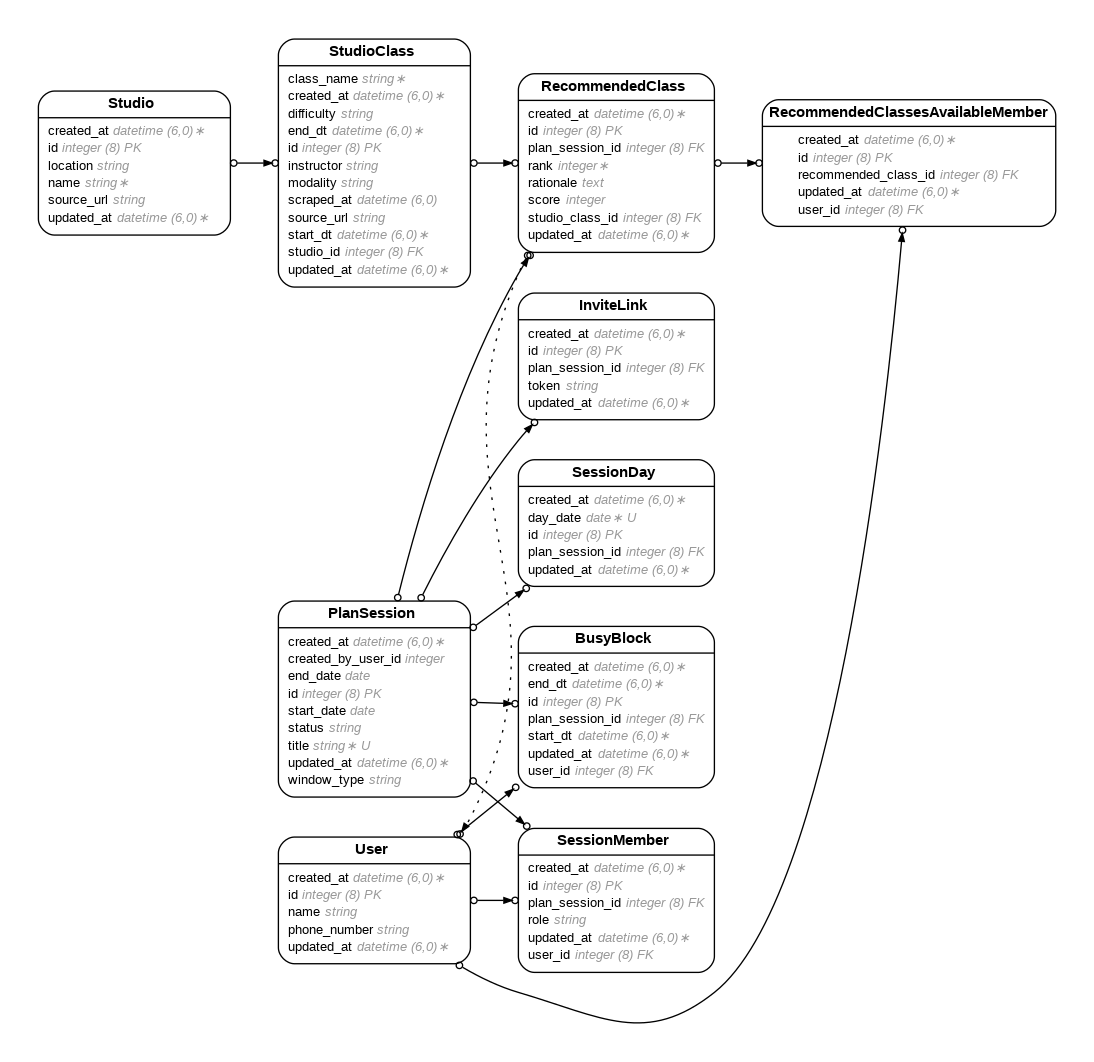
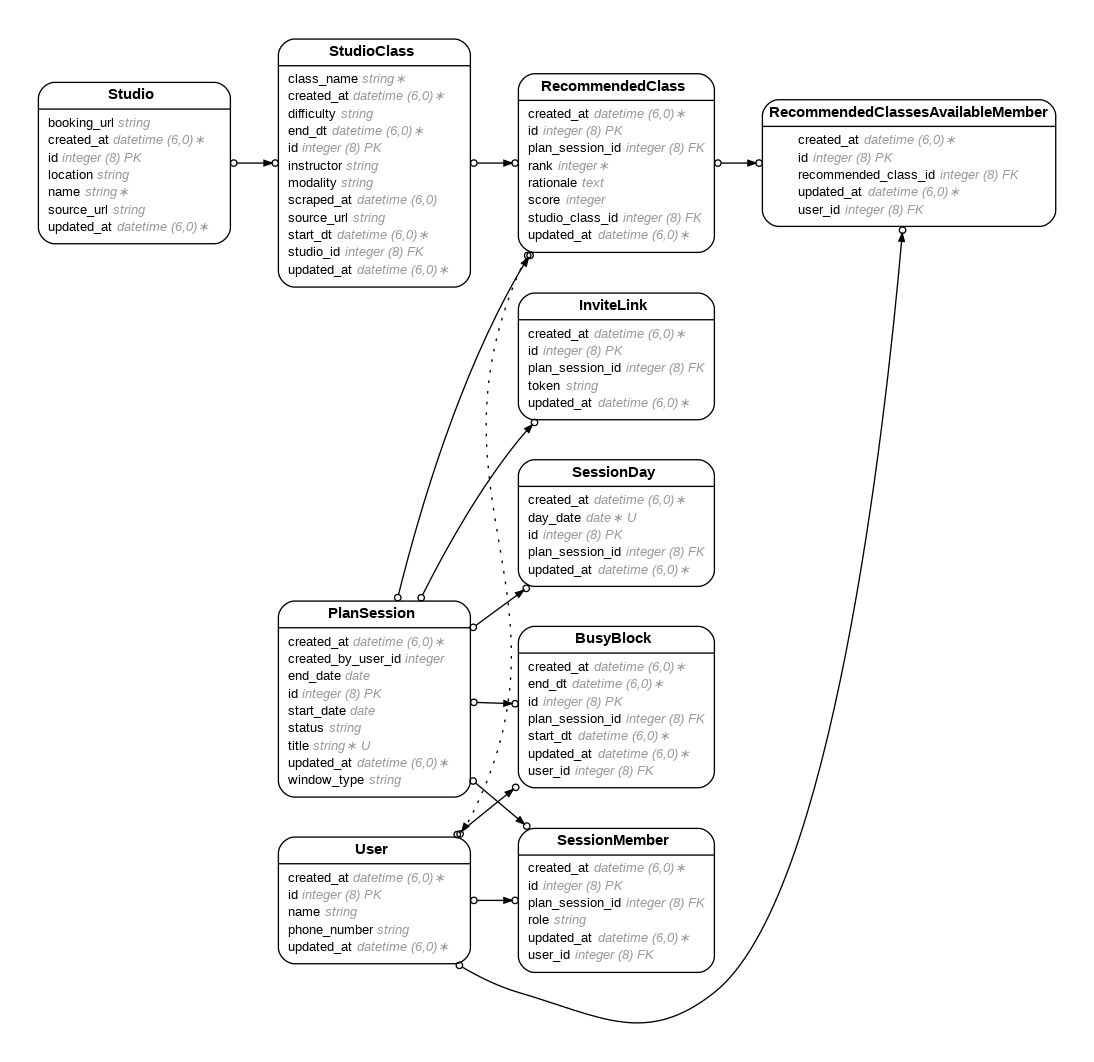
links to book top 3

Changed region(s): [[0.0311, 0.0621, 0.2176, 0.2486]]

diff --git a/db/schema.rb b/db/schema.rb
@@ -10,7 +10,7 @@
 #
 # It's strongly recommended that you check this file into your version control system.
 
-ActiveRecord::Schema[8.0].define(version: 2026_02_13_045712) do
+ActiveRecord::Schema[8.0].define(version: 2026_02_13_051158) do
   # These are extensions that must be enabled in order to support this database
   enable_extension "pg_catalog.plpgsql"
 
@@ -255,6 +255,7 @@ ActiveRecord::Schema[8.0].define(version: 2026_02_13_045712) do
     t.string "source_url"
     t.datetime "created_at", null: false
     t.datetime "updated_at", null: false
+    t.string "booking_url"
   end
 
   create_table "users", force: :cascade do |t|

diff --git a/app/models/studio.rb b/app/models/studio.rb
@@ -2,12 +2,13 @@
 #
 # Table name: studios
 #
-#  id         :bigint           not null, primary key
-#  location   :string
-#  name       :string
-#  source_url :string
-#  created_at :datetime         not null
-#  updated_at :datetime         not null
+#  id          :bigint           not null, primary key
+#  booking_url :string
+#  location    :string
+#  name        :string
+#  source_url  :string
+#  created_at  :datetime         not null
+#  updated_at  :datetime         not null
 #
 class Studio < ApplicationRecord
   has_many :studio_classes, dependent: :destroy

diff --git a/db/migrate/20260213051158_add_booking_url_to_studios.rb b/db/migrate/20260213051158_add_booking_url_to_studios.rb
@@ -1,0 +1,5 @@
+class AddBookingUrlToStudios < ActiveRecord::Migration[8.0]
+  def change
+    add_column :studios, :booking_url, :string
+  end
+end
